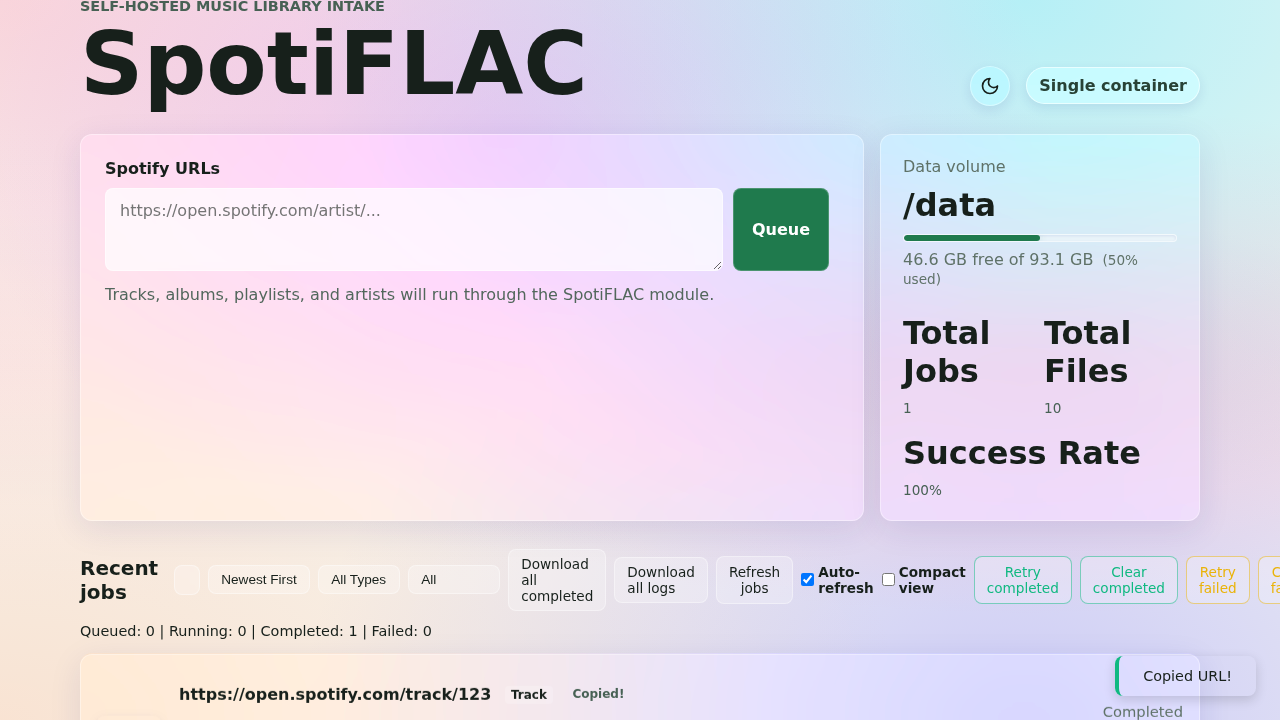
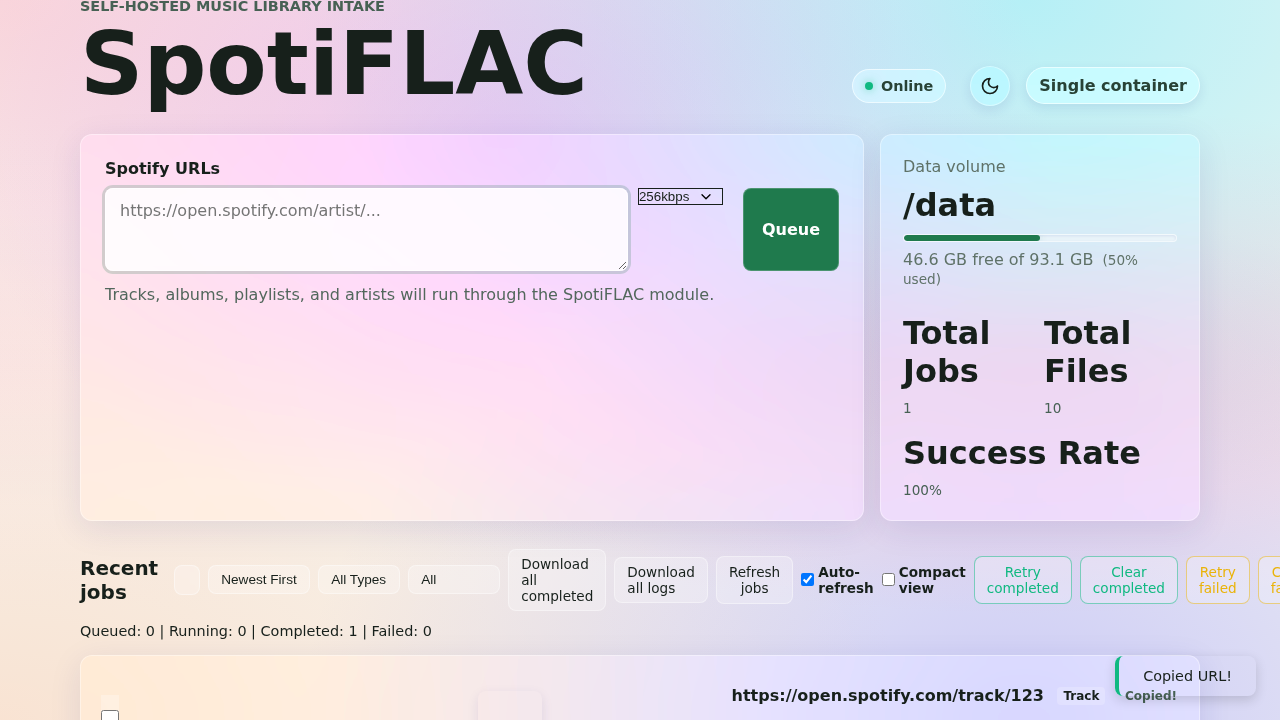
feat: add quality selector to download job form
- Added a `<select>` for quality (128kbps, 256kbps, 320kbps) to the queue form UI.
- Integrated the selected quality value into the `POST /api/jobs` fetch payload.
- Wrote Playwright E2E tests to verify form submission includes the URL and quality parameters.
- Closed the related backlog item `download_job_form.md`.

diff --git a/website/tests/download_job_form.spec.js b/website/tests/download_job_form.spec.js
@@ -1,0 +1,74 @@
+import { test, expect } from '@playwright/test';
+
+test('Download job form submits with URL and quality setting', async ({ page }) => {
+  // Navigate to the app
+  await page.goto('/');
+
+  // Mock the jobs endpoint for submission
+  let submittedPayload = null;
+  let postCalls = 0;
+  await page.route('/api/jobs', async (route, request) => {
+    if (request.method() === 'POST') {
+      postCalls++;
+      submittedPayload = request.postDataJSON();
+      await route.fulfill({
+        status: 200,
+        contentType: 'application/json',
+        body: JSON.stringify({
+          id: 'test-job-123',
+          url: submittedPayload.url,
+          status: 'Queued',
+          created_at: new Date().toISOString(),
+          error_log: null,
+          files: 0,
+          total_size: 0
+        })
+      });
+    } else if (request.method() === 'GET') {
+       await route.fulfill({
+        status: 200,
+        contentType: 'application/json',
+        body: JSON.stringify([])
+      });
+    } else {
+      await route.continue();
+    }
+  });
+
+  // Mock health endpoint
+  await page.route('/api/health', async route => {
+    await route.fulfill({ status: 200, body: '{"status": "ok"}' });
+  });
+
+  // Mock storage stats
+  await page.route('/api/system/storage', async route => {
+    await route.fulfill({ status: 200, body: '{"total": 1000, "free": 500, "used": 500}' });
+  });
+
+  // Mock job stats
+  await page.route('/api/stats', async route => {
+    await route.fulfill({ status: 200, body: '{"total_jobs": 0, "total_files": 0, "success_rate": 100}' });
+  });
+
+  // Fill in the URL
+  const testUrl = 'https://open.spotify.com/track/123';
+  await page.fill('#spotify-url', testUrl);
+
+  // Select a quality setting
+  await page.selectOption('#quality-select', '320kbps');
+
+  // Submit the form
+  await page.click('button[type="submit"]');
+
+  // Verify the payload includes the quality
+  // Add a small wait to ensure request is dispatched
+  await page.waitForResponse(response => response.url().includes('/api/jobs') && response.request().method() === 'POST');
+  expect(submittedPayload).not.toBeNull();
+  expect(submittedPayload.url).toBe(testUrl);
+  expect(submittedPayload.quality).toBe('320kbps');
+  expect(postCalls).toBe(1);
+
+  // Verify feedback message
+  const feedback = page.locator('#queue-feedback');
+  await expect(feedback).toContainText('Successfully queued 1 job');
+});

diff --git a/website/tests/delete-multiple-jobs.spec.js b/website/tests/delete-multiple-jobs.spec.js
@@ -20,22 +20,22 @@ test.describe('Remove Multiple Selected Jobs', () => {
         id: 'job-1',
         url: 'https://open.spotify.com/track/111',
         status: 'Completed',
-        created_at: new Date().toISOString(),
-        completed_at: new Date().toISOString(),
+        created_at: new Date('2024-01-01T12:00:00Z').toISOString(),
+        completed_at: new Date('2024-01-01T12:05:00Z').toISOString(),
       },
       {
         id: 'job-2',
         url: 'https://open.spotify.com/track/222',
         status: 'Completed',
-        created_at: new Date().toISOString(),
-        completed_at: new Date().toISOString(),
+        created_at: new Date('2024-01-01T11:00:00Z').toISOString(),
+        completed_at: new Date('2024-01-01T11:05:00Z').toISOString(),
       },
       {
         id: 'job-3',
         url: 'https://open.spotify.com/track/333',
         status: 'Failed',
-        created_at: new Date().toISOString(),
-        completed_at: new Date().toISOString(),
+        created_at: new Date('2024-01-01T10:00:00Z').toISOString(),
+        completed_at: new Date('2024-01-01T10:05:00Z').toISOString(),
       }
     ];
 
@@ -78,9 +78,9 @@ test.describe('Remove Multiple Selected Jobs', () => {
     const deleteBtn = page.locator('#delete-selected-btn');
     await expect(deleteBtn).toBeHidden();
 
-    // Select the first two jobs
-    const checkbox1 = page.locator('.job-select-checkbox').nth(0);
-    const checkbox2 = page.locator('.job-select-checkbox').nth(1);
+    // Select the first two jobs (job-1 and job-2 since they are sorted newest first)
+    const checkbox1 = page.locator('.job-select-checkbox[data-job-id="job-1"]');
+    const checkbox2 = page.locator('.job-select-checkbox[data-job-id="job-2"]');
 
     await checkbox1.evaluate(node => node.click());
     await checkbox2.evaluate(node => node.click());
@@ -106,7 +106,7 @@ test.describe('Remove Multiple Selected Jobs', () => {
     expect(deletedJobIds).not.toContain('job-3');
     expect(deletedJobIds).toHaveLength(2);
 
-    // After success, button should be hidden again (assuming re-render unchecks or removes jobs, though we didn't update the mock return, the button is manually hidden in app.js)
+    // After success, button should be hidden again
     await expect(deleteBtn).toBeHidden();
   });
 });

diff --git a/website/src/app.js b/website/src/app.js
@@ -187,6 +187,11 @@ export function renderApp(root) {
               required
               rows="3"
             ></textarea>
+            <select id="quality-select" name="quality" class="job-status-filter" aria-label="Quality Setting" style="align-self: flex-start; margin-right: 10px; background-color: var(--card-bg); border-color: var(--border-color); color: var(--text-color);">
+              <option value="128kbps">128kbps</option>
+              <option value="256kbps" selected>256kbps</option>
+              <option value="320kbps">320kbps</option>
+            </select>
             <button type="button" id="clear-input-btn" class="clear-history-btn hidden-btn">Clear input</button>
             <button type="submit">Queue</button>
           </div>
@@ -655,11 +660,13 @@ export function renderApp(root) {
     }
 
     try {
+      const qualitySelect = form.querySelector('#quality-select');
+      const quality = qualitySelect ? qualitySelect.value : "256kbps";
       const requests = urls.map(url =>
         fetch("/api/jobs", {
           method: "POST",
           headers: { "Content-Type": "application/json" },
-          body: JSON.stringify({ url })
+          body: JSON.stringify({ url, quality })
         })
       );
 

diff --git a/docs/backlog/closed/download_job_form.md b/docs/backlog/closed/download_job_form.md
@@ -1,0 +1,14 @@
+# Backlog: Download Job Form
+
+Create a web UI to submit SpotiFLAC download jobs.
+
+The user should be able to:
+- Enter a Spotify URL.
+- Optionally select a quality setting (128kbps, 256kbps, 320kbps).
+- Click a button to submit the job.
+- See basic validation (e.g., URL cannot be empty).
+
+For now, the UI can just simulate submission and print to the console or display a dummy success message. Actual API integration will come later.
+
+Testing:
+- Write a Playwright test to verify the form exists, accepts input, and shows a submission message.
